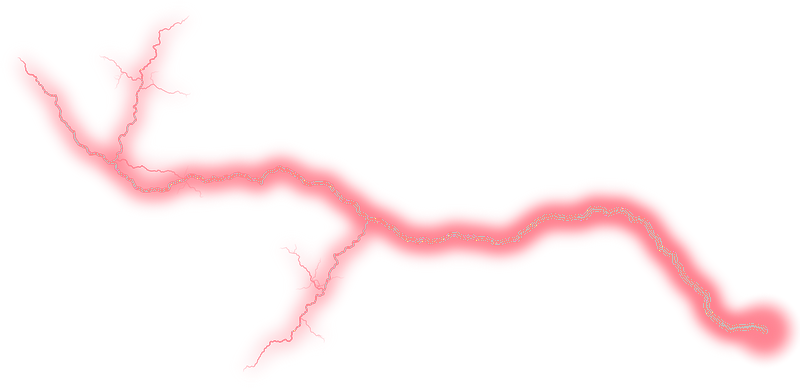
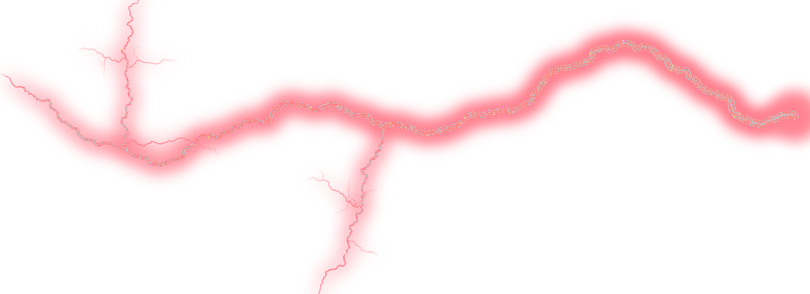
Animação de raio funcionando

Changed region(s): [[0.0, 0.0, 1.0, 0.9796], [0.3438, 0.6429, 0.375, 0.6735]]

diff --git a/personagens.py b/personagens.py
@@ -495,17 +495,21 @@ class JohnMayer(Personagem):
         return animacao_JohnMayer(self, counter, x, y)
     
     def animacao_ataque(self, counter, x, y):
+        
         if counter == 1:
-            self.set_image("attack")
-            self.raio = 1
-
-
+            self.raio_image = pygame.image.load(f"./imagens/raio.png")
+            
             w = self.raio_image.get_width()
             self.raio_rect = (x, y)
             d = ((self.x - x)**2 + (self.y - y)**2)**(1/2)
-            self.raio_image = pygame.transform.scale_by(self.raio_image, d/w)
-            a = numpy.arcsin((x - self.x) / d)
-            self.raio_image = pygame.transform.rotate(self.raio_image, a)
+            a = ((numpy.arccos((self.x - x) / d) * 180) / 3.14) 
+            if(self.y == y): d += 20
+            
+            self.set_image("attack")
+            self.raio = 1
+
+            self.raio_image = pygame.transform.scale_by(self.raio_image, (d + 10)/w)
+            self.raio_image = pygame.transform.rotate(self.raio_image, -a)
 
         if counter >= 50: 
             self.set_image("default")
